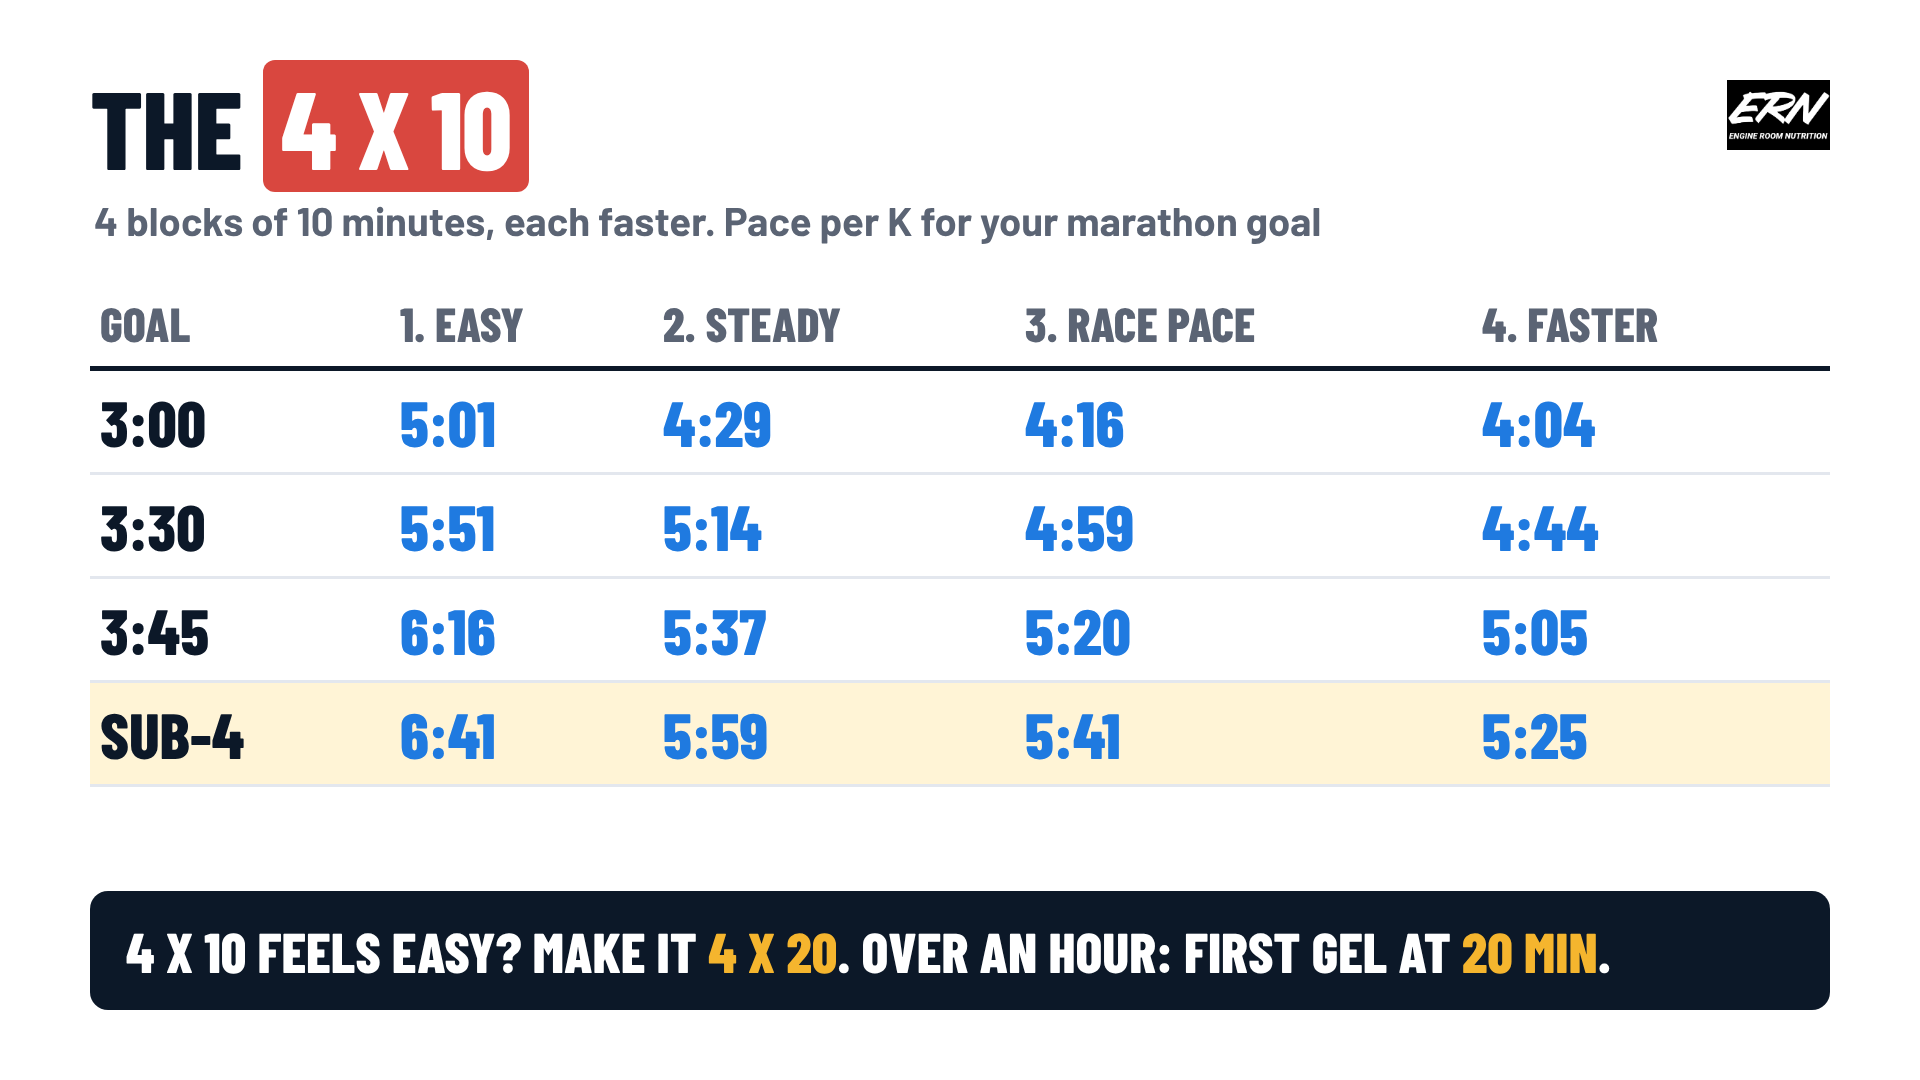
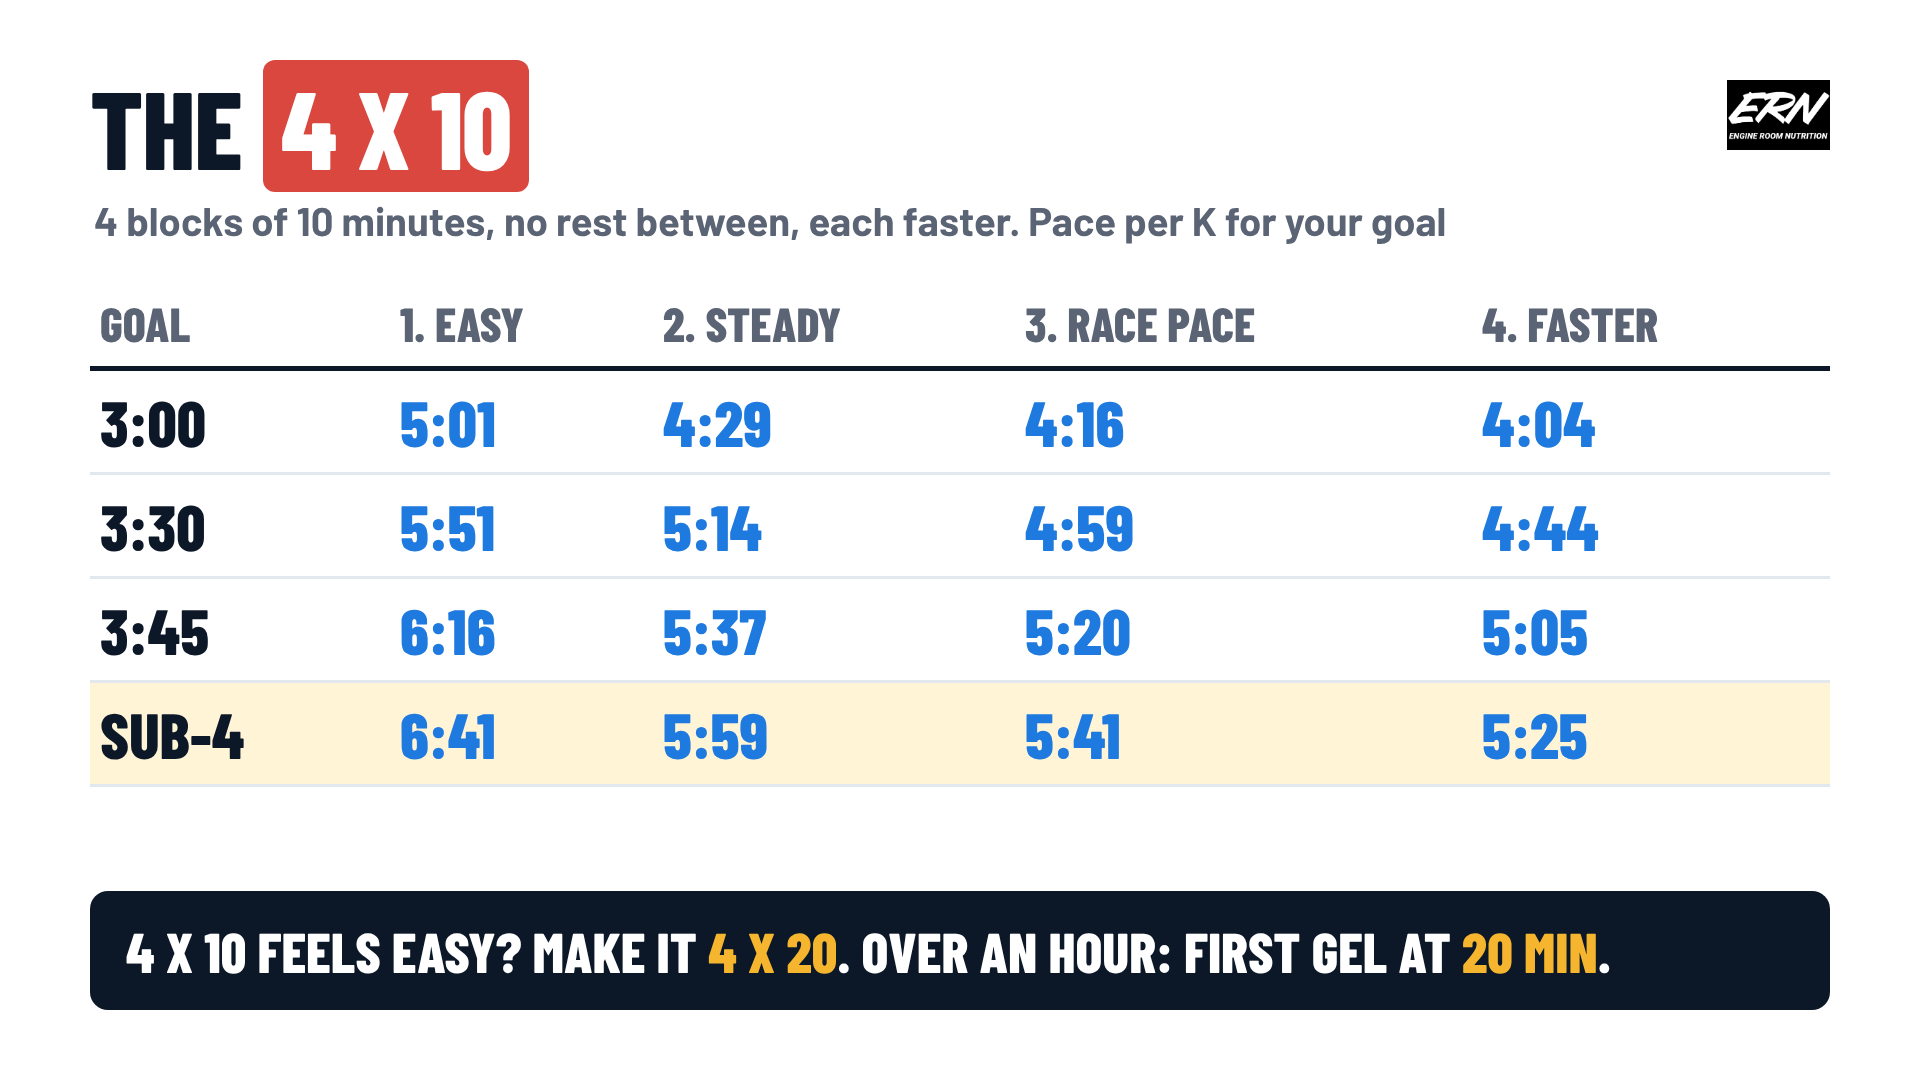
Almgren: no rest between blocks, said in the caption and on the 4 x 10 card
Claude-Session: https://claude.ai/code/session_01C5bFwjsy7wubJR84HAMdDJ

Changed region(s): [[0.25, 0.1833, 0.75, 0.2444]]

diff --git a/motion/almgren/card.html b/motion/almgren/card.html
@@ -15,7 +15,7 @@ td.g{color:#1f7ae0} tr.me td{background:#fff4d6}
 .logo{position:absolute;right:90px;top:80px;height:70px}
 </style></head><body>
 <h1>THE <span>4 X 10</span></h1>
-<div class="sub">4 blocks of 10 minutes, each faster. Pace per K for your marathon goal</div>
+<div class="sub">4 blocks of 10 minutes, no rest between, each faster. Pace per K for your goal</div>
 <img class="logo" src="../brand/ern-logo.png">
 <table>
 <tr><th>GOAL</th><th>1. EASY</th><th>2. STEADY</th><th>3. RACE PACE</th><th>4. FASTER</th></tr>

diff --git a/ideas/engine-room-nutrition/2026-11-24-script-almgren-long-run.md b/ideas/engine-room-nutrition/2026-11-24-script-almgren-long-run.md
@@ -90,7 +90,7 @@ Line one: the pro, his 2:06, the objection answered (shape, not speed), then the
 "Send this to the friend who's chasing their first sub-4, because their hardest long run just got shorter."
 
 ## Caption
-Andreas Almgren won the 2026 New York City Marathon on his debut in 2:06:01, about 2:59 a kilometre. One of his long runs in the build-up was 40K in four 10K blocks, each faster: about 3:30, 3:08, 2:59 and 2:51 a K (as reported by Marathon Handbook). That's easy, steady, race pace, then a bit quicker than race pace. Your version keeps the shape and shrinks the time: 4 blocks of 10 minutes, 40 minutes in all.
+Andreas Almgren won the 2026 New York City Marathon on his debut in 2:06:01, about 2:59 a kilometre. One of his long runs in the build-up was 40K in four 10K blocks, each faster: about 3:30, 3:08, 2:59 and 2:51 a K (as reported by Marathon Handbook). That's easy, steady, race pace, then a bit quicker than race pace. Your version keeps the shape and shrinks the time: 4 blocks of 10 minutes, 40 minutes in all, with no rest between them, each block running straight into the next, as his did.
 
 Your 4 paces a K (easy, steady, race pace, faster). 3:00 marathon: 5:01, 4:29, 4:16, 4:04. 3:30: 5:51, 5:14, 4:59, 4:44. 3:45: 6:16, 5:37, 5:20, 5:05. 4:00: 6:41, 5:59, 5:41, 5:25 (in miles, 10:45, 9:38, 9:09, 8:43). These are his blocks scaled to your race pace, not a study, so if the last block feels too much, hold race pace instead. When 4 x 10 feels easy, try 4 x 15, then 4 x 20. Once a run goes past an hour, take your first gel at 20 minutes and one every 30: in Maurten's testing it took about an hour before his drink was a steady share of the fuel he burned.
 
